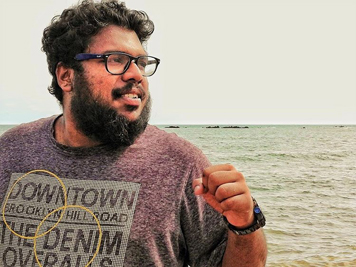
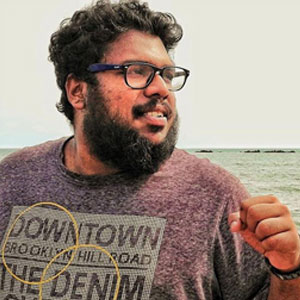
updated speaker images

diff --git a/assets/css/main.css b/assets/css/main.css
@@ -1152,9 +1152,7 @@ h1 {
 #speakers .speakers-member:hover {
   box-shadow: 0px 6px 15px rgba(0, 0, 0, 0.14);
 }
-#speakers .speakers-member:hover .member-img img {
-  margin-top: -58px;
-}
+
 .speakers-member {
   text-align: center;
   margin-bottom: 30px;
@@ -2319,7 +2317,11 @@ blockquote .quote-text {
   box-shadow: 0px 6px 15px rgba(0, 0, 0, 0.14);
   outline: none;
 }
-
+.member-img img{
+  height: 260px;
+  width: 260px;
+  border-radius: 270px;
+}
 /* .seperator-line{
   display:  block;
   width: 80%;
